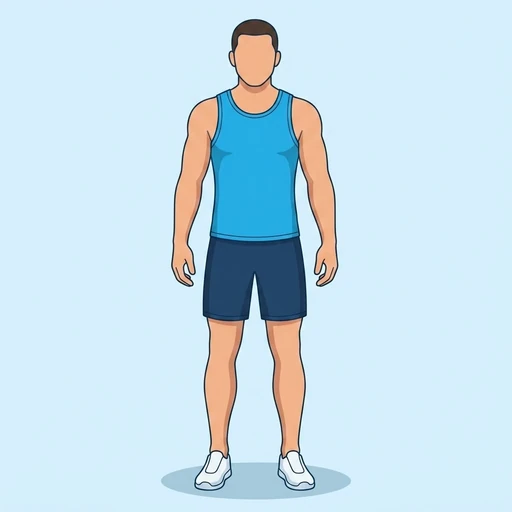
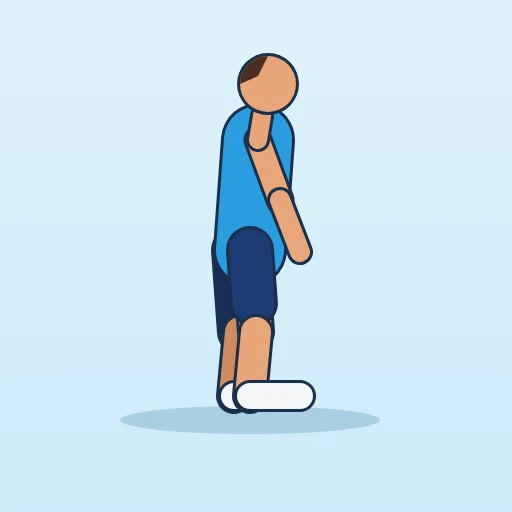
Burpees guide: five steps all drawn from the same side angle
Claude-Session: https://claude.ai/code/session_011EyCEKCjZPZbuj2yboJQyi

Changed region(s): [[0.2188, 0.0312, 0.75, 1.0]]

diff --git a/css/app.css b/css/app.css
@@ -478,10 +478,10 @@ body:not(.has-tabs) #toast { bottom: calc(var(--safe-bottom) + 24px); }
 .pic-loop .pic-frame, .pic-still .pic-frame, .pic-seq .pic-frame { position: absolute; inset: 0; height: 100%; object-fit: contain; }
 .pic-loop .pic-f2 { animation: pic-swap 2.8s ease-in-out infinite; }
 .pic-loop.paused .pic-f2 { animation-play-state: paused; }
-/* a move of four steps: each picture shows for one second of a four second loop (delays are set on each picture) */
-.pic-seq .pic-frame { opacity: 0; animation: pic-seq 4s step-end infinite; }
+/* a move of five steps: each picture shows for one second of a five second loop (delays are set on each picture) */
+.pic-seq .pic-frame { opacity: 0; animation: pic-seq 5s step-end infinite; }
 .pic-seq.paused .pic-frame { animation-play-state: paused; }
-@keyframes pic-seq { 0% { opacity: 1; } 25%, 100% { opacity: 0; } }
+@keyframes pic-seq { 0% { opacity: 1; } 20%, 100% { opacity: 0; } }
 .pic-strip { display: grid; grid-template-columns: 1fr 1fr; gap: 6px; max-width: 520px; background: none; border-radius: 0; }
 .pic-strip .pic-frame { aspect-ratio: 1 / 1; object-fit: contain; border-radius: 12px; background: var(--pic-bg); }
 @keyframes pic-swap { 0%, 40% { opacity: 0; } 50%, 90% { opacity: 1; } 100% { opacity: 0; } }

diff --git a/js/data/pictures.js b/js/data/pictures.js
@@ -103,7 +103,7 @@ export const PICTURES = {
   'stair-climber': { f: 'stair-climber', mode: 'still' },
   skipping: { f: 'jump-rope', mode: 'still' },
   'jumping-jacks': { f: 'jumping-jacks' },
-  burpees: { f: 'burpees', mode: 'seq', n: 4, note: 'The four steps: stand, hands down to the push-up position, chest to the floor, then jump up with your arms overhead. Step back instead of jumping to make it easier.' },
+  burpees: { f: 'burpees', mode: 'seq', n: 5, note: 'Drawn from the side, in order: stand, squat and put your hands down, kick your feet back to the push-up position, jump your feet back in, then jump up with your arms overhead. Step instead of jumping to make it easier.' },
   'mountain-climbers': { f: 'mountain-climbers' },
 };
 

diff --git a/sw.js b/sw.js
@@ -1,7 +1,7 @@
 // Gainloop service worker.
 // Network first: when you're online you always get the latest files you deployed,
 // and a copy is kept so the app still opens offline.
-const CACHE = 'gainloop-v9';
+const CACHE = 'gainloop-v10';
 
 // The page itself is kept as './' only: some hosts (Cloudflare Pages) send /index.html on to /
 const SHELL = [
